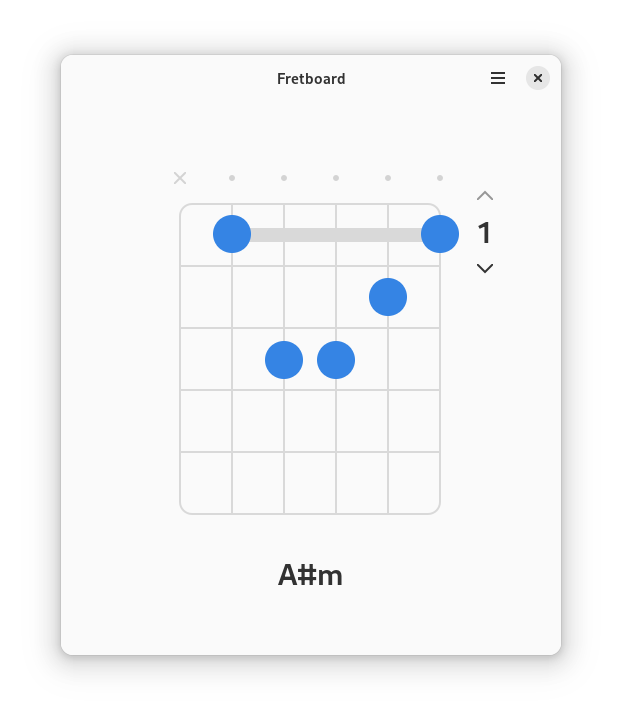
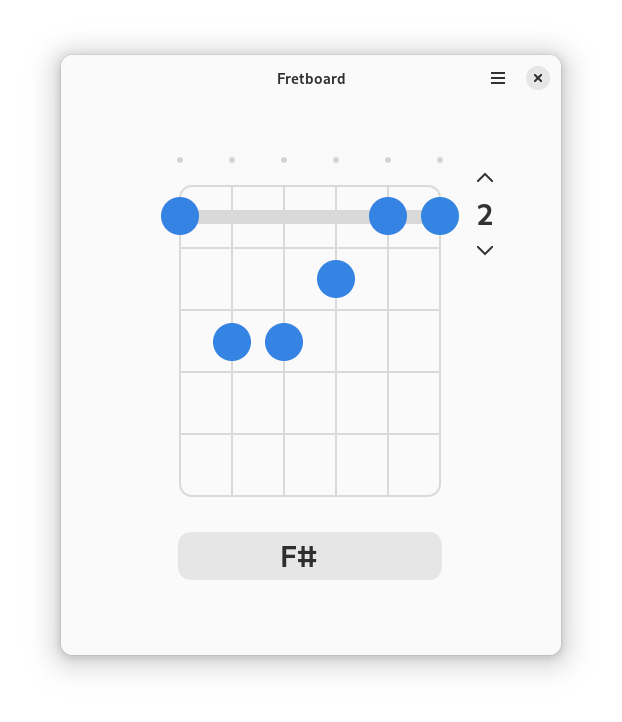
improve entry styling

diff --git a/src/ui/style.css b/src/ui/style.css
@@ -48,9 +48,8 @@ chord-diagram-top-toggle button:hover {
 }
 
 .fretboard-chord-entry {
-  background: transparent;
   font-size: 2rem;
-  padding: 0.2em;
+  padding: 0.2em 0.5em;
   font-weight: bold;
   border-radius: 12px;
 }

diff --git a/src/window.rs b/src/window.rs
@@ -48,6 +48,8 @@ mod imp {
         #[template_child]
         pub entry: TemplateChild<gtk::Entry>,
 
+        pub entry_buffer: RefCell<String>,
+
         pub chords: RefCell<Vec<Chord>>,
     }
 
@@ -134,8 +136,18 @@ impl FretboardWindow {
 
         let entry = self.imp().entry.get();
 
+        entry.connect_changed(glib::clone!(@weak self as win => move |entry| {
+            if &entry.text().as_str() != &win.imp().entry_buffer.borrow().clone() {
+                entry.set_secondary_icon_name(Some("checkmark-large-symbolic"));
+            } else {
+                entry.set_secondary_icon_name(None);
+            }
+        }));
+
         entry.connect_activate(glib::clone!(@weak self as win => move |entry| {
             win.load_chord_from_name(&entry.text());
+            win.imp().entry_buffer.replace(entry.text().as_str().to_string());
+            entry.set_secondary_icon_name(None);
         }));
 
         // load chords
@@ -171,6 +183,7 @@ impl FretboardWindow {
             .map(|chord| chord.name.to_owned())
             .unwrap_or(String::from(""));
 
+        self.imp().entry_buffer.replace(name.to_string());
         self.imp().entry.set_text(&name);
     }
 }
